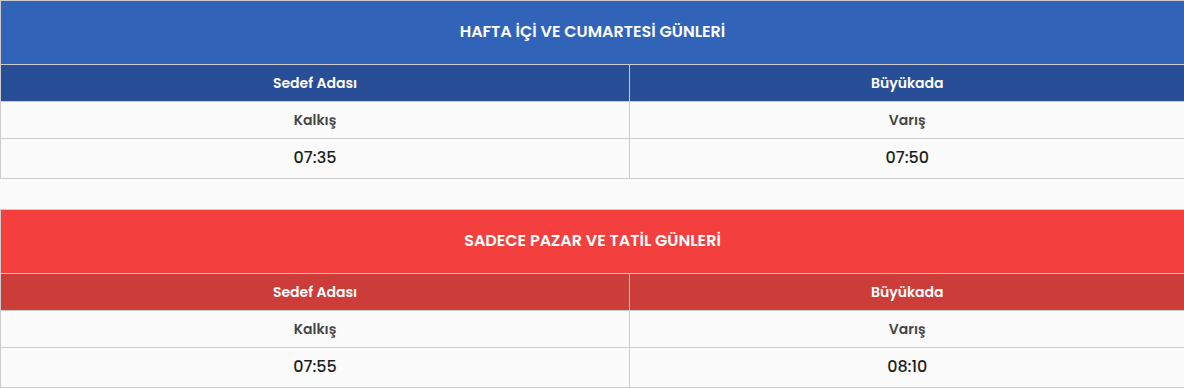
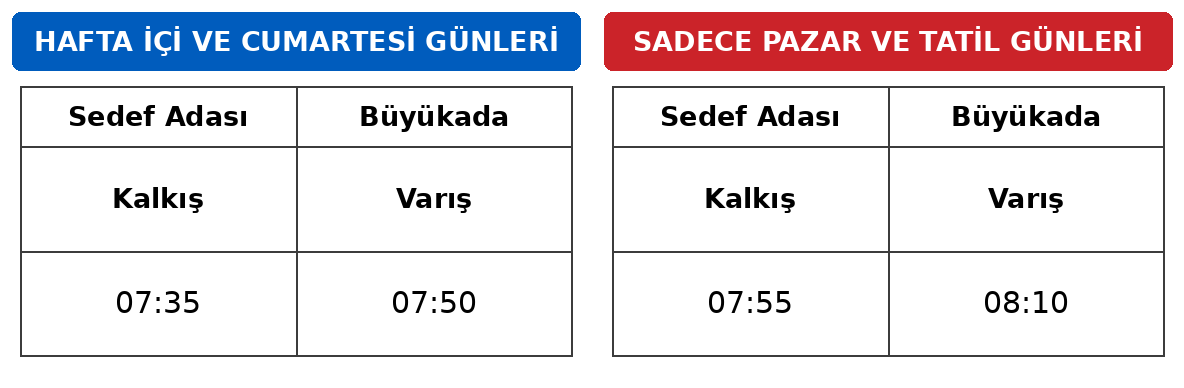
şehir kış hat

diff --git a/src/App.tsx b/src/App.tsx
@@ -720,7 +720,9 @@ function AppContent() {
           <BlogCard
             key={post.id}
             title={post.title}
-            content={post.content}
+            content={post.id === 'ulasim_tarife'
+              ? `${post.content}\n<div style="margin-top:2rem;"><img src="/ada_tarifesi_2027.png" alt="${lang === 'tr' ? 'Şehir Hatları Büyükada - Sedef Adası akşam tarifesi' : 'City Lines Buyukada - Sedef Island evening timetable'}" style="width:100%;border-radius:10px;box-shadow:0 2px 12px rgba(0,0,0,0.10);" /></div>`
+              : post.content}
             contentClassName={post.id === 'anilar' ? 'memories-content' : undefined}
             publishedAt={post.publishedAt}
             categories={post.categories}

diff --git a/src/index.css b/src/index.css
@@ -42,6 +42,10 @@ body.light-mode .blog-content img {
   box-shadow: 0 16px 48px rgba(0, 0, 0, 0.45), 0 4px 16px rgba(0, 0, 0, 0.22);
 }
 
+.prose div:has(> img[src="/şehirhatları_kış_tarifesi_2027.png"]) {
+  flex: 1 1 100% !important;
+}
+
 .blog-content .post-hero-image img {
   width: 100% !important;
   max-height: 520px !important;
